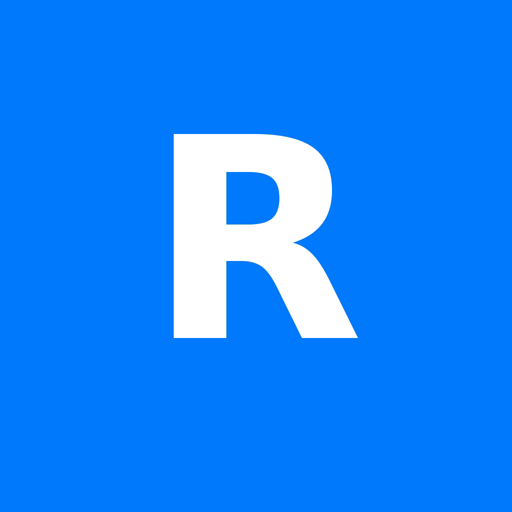
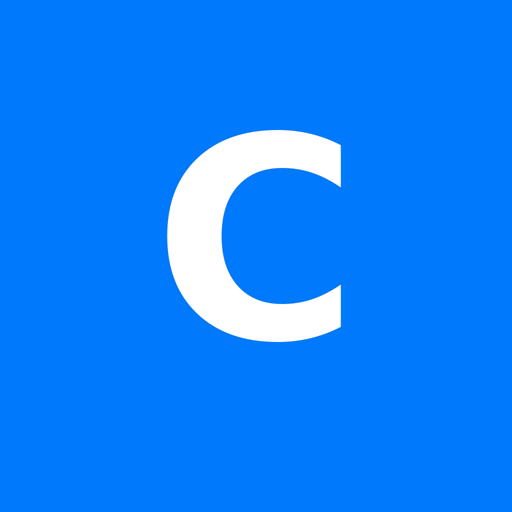
Rebrand video pipeline + listing page to ClipState
Matches the frontend rebrand: watermark, outro card wordmark, outro
icon, and the listing page's <title> tags now say ClipState instead
of Reelstate.

Claude-Session: https://claude.ai/code/session_011D1PpVWgG6v64tXmtCrRQw

Changed region(s): [[0.3125, 0.25, 0.7188, 0.6875]]

diff --git a/supabase/functions/listing/index.ts b/supabase/functions/listing/index.ts
@@ -62,7 +62,7 @@ function renderListingPage(upload: any, captions: any[]): string {
 <head>
 <meta charset="utf-8" />
 <meta name="viewport" content="width=device-width, initial-scale=1" />
-<title>${escapeHtml(upload.address)} — Reelstate</title>
+<title>${escapeHtml(upload.address)} — ClipState</title>
 <style>
   :root { color-scheme: light; }
   * { box-sizing: border-box; }
@@ -125,7 +125,7 @@ function renderProcessingPage(upload: any): string {
     : "Your listing is still being generated — check back in a moment.";
   return `<!doctype html>
 <html lang="en">
-<head><meta charset="utf-8" /><title>Reelstate — Processing</title></head>
+<head><meta charset="utf-8" /><title>ClipState — Processing</title></head>
 <body style="font-family: system-ui, sans-serif; text-align: center; padding: 80px 20px;">
   <h1>${escapeHtml(message)}</h1>
   <p>Status: ${escapeHtml(upload.status)}</p>

diff --git a/video-service/outro.js b/video-service/outro.js
@@ -14,7 +14,7 @@ export async function getOutroPath({ width, height, iconPath }) {
   const filter =
     `[1:v]scale=${Math.round(width * 0.33)}:${Math.round(width * 0.33)}[icon];` +
     `[0:v][icon]overlay=(W-w)/2:H*0.36[bg];` +
-    `[bg]drawtext=fontfile=${FONT}:text='Reelstate':fontsize=${Math.round(width * 0.06)}:fontcolor=white:` +
+    `[bg]drawtext=fontfile=${FONT}:text='ClipState':fontsize=${Math.round(width * 0.06)}:fontcolor=white:` +
     `x=(w-text_w)/2:y=H*0.58`;
 
   await run("ffmpeg", [

diff --git a/video-service/render.js b/video-service/render.js
@@ -54,7 +54,7 @@ export async function renderMarketingVideo(inputPath, outputPath) {
   const captions = pickCaptions(numCaptions);
 
   const watermark =
-    `drawtext=fontfile=${FONT}:text='Reelstate':fontsize=28:fontcolor=white@0.75:` +
+    `drawtext=fontfile=${FONT}:text='ClipState':fontsize=28:fontcolor=white@0.75:` +
     `x=w-text_w-32:y=h-text_h-40`;
 
   const filters = [

diff --git a/video-service/server.js b/video-service/server.js
@@ -95,5 +95,5 @@ async function uploadToSupabase(filePath, storagePath) {
 }
 
 app.listen(PORT, () => {
-  console.log(`Reelstate video service listening on :${PORT}`);
+  console.log(`ClipState video service listening on :${PORT}`);
 });
